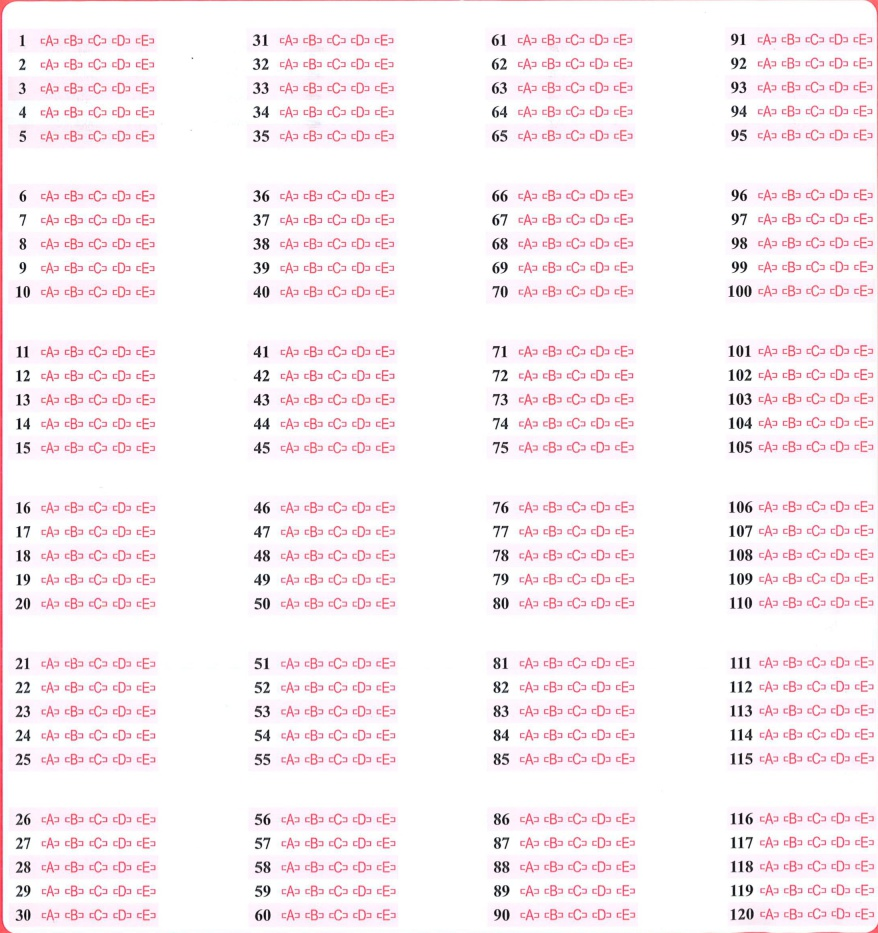
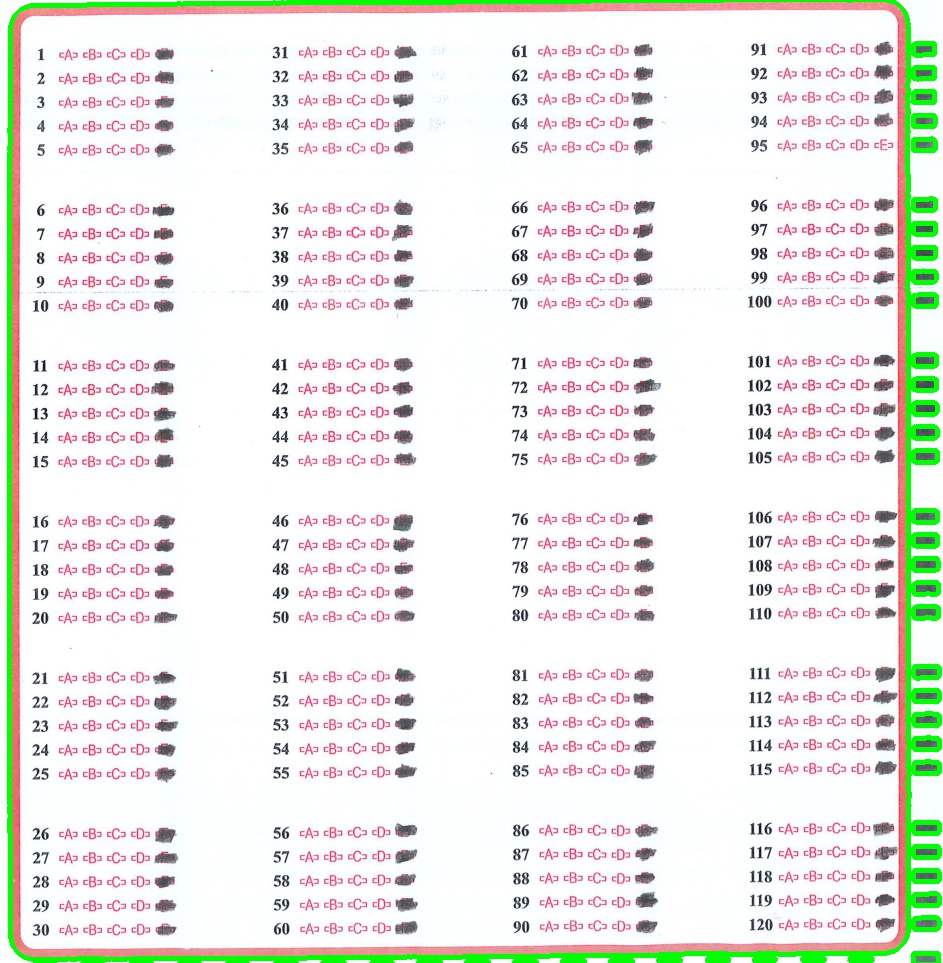
Add new images and files

diff --git a/python/image_crop.py b/python/image_crop.py
@@ -1,6 +1,5 @@
 import cv2
 import numpy as np
-import os
 
 
 def edge_detect(image):
@@ -28,7 +27,7 @@ def find_contours(image):
 
 
 # 裁剪图像
-def crop_answer_area(rotated, contours, h, w):
+def crop(rotated, contours, h, w):
         # 矩形四角坐标
     contours = find_contours(rotated)
     c = max(contours, key=cv2.contourArea)
@@ -44,7 +43,7 @@ def crop_answer_area(rotated, contours, h, w):
         x2, y2 = w - x2, h - y2
 
 
-    # 裁剪出矩形区域
+    # 裁剪出矩形答题区域
     rotated = rotated[min(y1, y2):max(y1, y2), min(x1, x2):max(x1, x2)]
 
     return rotated
@@ -58,7 +57,7 @@ def deskew(image):
     contours = find_contours(image)
 
     # 画出轮廓
-    cv2.drawContours(image, contours, -1, (0, 255, 0), 3)
+    # cv2.drawContours(image, contours, -1, (0, 255, 0), 3)
 
     # 找到最大的轮廓
     c = max(contours, key=cv2.contourArea)
@@ -79,32 +78,34 @@ def deskew(image):
     rotated = cv2.warpAffine(image, M, (w, h), flags=cv2.INTER_CUBIC, borderMode=cv2.BORDER_REPLICATE) # 旋转图像
 
     # 裁剪图像
-    rotated = crop_answer_area(rotated, contours, h, w)
+    rotated = crop(rotated, contours, h, w)
+
+        # 将学号区域转换为灰度图像，并应用二值化
+    gray = cv2.cvtColor(rotated, cv2.COLOR_BGR2GRAY)
+    _, thresh = cv2.threshold(gray, 0, 255, cv2.THRESH_BINARY_INV + cv2.THRESH_OTSU)
+
+    # 轮廓检测
+    contours, _ = cv2.findContours(thresh, cv2.RETR_EXTERNAL, cv2.CHAIN_APPROX_SIMPLE)
+
+    # 最小轮廓面积
+    min_area = 20
+    contours = [c for c in contours if cv2.contourArea(c) > min_area]
+
+
+    # 画出轮廓
+    cv2.drawContours(rotated, contours, -1, (0, 255, 0), 3)
 
 
     return rotated
 
 
 
-def read_images(folder_path):
-    images = []
-    for filename in os.listdir(folder_path):
-        filepath = os.path.join(folder_path, filename)
-        if os.path.isfile(filepath) and filename.lower().endswith(('.png', '.jpg', '.jpeg')):
-            img = cv2.imread(filepath)
-            if img is not None:
-                images.append(img)
-            else:
-                print(f"Failed to read image: {filepath}")
-    return images
-
-
 
 
 if __name__ == '__main__':
-    # Read the image 
+    # Read the image
     image = cv2.imread('images/blank.jpg')    # 缩小图像大小
-    scale_percent = 40 # percent of original size
+    scale_percent = 50 # percent of original size
     width = int(image.shape[1] * scale_percent / 100)
     height = int(image.shape[0] * scale_percent / 100)
     dim = (width, height)
@@ -114,6 +115,8 @@ if __name__ == '__main__':
     # Deskew the image
     deskewed = deskew(image)
 
-    #存储图像
-    cv2.imwrite('pdf/deskewed.jpg', deskewed)
-    
+    # 裁剪图像
+
+
+    cv2.imshow('Deskewed', deskewed)
+    cv2.waitKey(0)

diff --git a/python/image_crop_test.py b/python/image_crop_test.py
@@ -1,0 +1,89 @@
+import cv2
+import numpy as np
+import os
+
+def edge_detect(image):
+    gray = cv2.cvtColor(image, cv2.COLOR_BGR2GRAY)
+    blurred = cv2.GaussianBlur(gray, (5, 5), 0)
+    edged = cv2.Canny(blurred, 50, 150)
+    return edged
+
+
+
+def find_contours(image):
+    edged = edge_detect(image)
+    contours, _ = cv2.findContours(edged, cv2.RETR_EXTERNAL, cv2.CHAIN_APPROX_SIMPLE)
+    return contours
+
+
+
+
+def crop_answer_area(rotated, contours, h, w):
+    contours = find_contours(rotated)
+    c = max(contours, key=cv2.contourArea)
+    rect = cv2.minAreaRect(c)
+    box = cv2.boxPoints(rect)
+    box = np.intp(box)
+    x1, y1 = box[0]
+    x2, y2 = box[2]
+
+    if y1 < h - y2:
+        rotated = cv2.rotate(rotated, cv2.ROTATE_180)
+        x1, y1 = w - x1, h - y1
+        x2, y2 = w - x2, h - y2
+
+    rotated = rotated[min(y1, y2):max(y1, y2), min(x1, x2):max(x1, x2)]
+    return rotated
+
+
+
+
+def deskew(image):
+    (h, w) = image.shape[:2]
+    contours = find_contours(image)
+    c = max(contours, key=cv2.contourArea)
+    rect = cv2.minAreaRect(c)
+    box = cv2.boxPoints(rect)
+    box = np.intp(box)
+    angle = rect[2]
+    if rect[1][0] > rect[1][1]:
+        angle = 90 + angle
+
+    center = (w // 2, h // 2)
+    M = cv2.getRotationMatrix2D(center, angle, 1.0)
+    rotated = cv2.warpAffine(image, M, (w, h), flags=cv2.INTER_CUBIC, borderMode=cv2.BORDER_REPLICATE)
+    rotated = crop_answer_area(rotated, contours, h, w)
+    return rotated
+
+
+
+
+def process_images_in_folder(folder_path, output_folder):
+    if not os.path.exists(output_folder):
+        os.makedirs(output_folder)
+
+    for filename in os.listdir(folder_path):
+        if filename.lower().endswith(('.png', '.jpg', '.jpeg')):
+            image_path = os.path.join(folder_path, filename)
+            image = cv2.imread(image_path)
+
+            scale_percent = 40  # percent of original size
+            width = int(image.shape[1] * scale_percent / 100)
+            height = int(image.shape[0] * scale_percent / 100)
+            dim = (width, height)
+
+            image = cv2.resize(image, dim, interpolation=cv2.INTER_AREA)
+            deskewed = deskew(image)
+
+            output_path = os.path.join(output_folder, f"deskewed_{filename}")
+            cv2.imwrite(output_path, deskewed)
+            print(f"Processed and saved: {output_path}")
+
+
+
+
+
+if __name__ == '__main__':
+    input_folder = 'images/pdf_converted'  # Specify the input folder path here
+    output_folder = 'cropped_images'  # Specify the output folder path here
+    process_images_in_folder(input_folder, output_folder)

diff --git a/python/crop_question.py b/python/crop_question.py
@@ -19,10 +19,10 @@ def crop_box(input_image_path, start_x, start_y, box_width, box_height):
 
 if __name__ == '__main__':
     # 示例用法
-    input_image_path = "pdf/deskewed.jpg"  # 输入图片路径
-    start_x = 15  # 起始横坐标
-    start_y = 30  # 起始纵坐标
-    box_width = 150  # 截图窗口宽度
+    input_image_path = "images/cropped_images/deskewed_0011.jpg"  # 输入图片路径
+    start_x = 40  # 起始横坐标
+    start_y = 40  # 起始纵坐标
+    box_width = 130  # 截图窗口宽度
     box_height = 24  # 截图窗口高度
 
     for i in range(1, 121):
@@ -31,8 +31,8 @@ if __name__ == '__main__':
             if i % 30 == 0:
                 cropped_image = crop_box(input_image_path, start_x, start_y, box_width, box_height)
                 cropped_image.save(f"images/cropped_questions/cropped_image_{i}.jpg")
-                start_y = 30
-                start_x += box_width + 87
+                start_y = 40
+                start_x += box_width + 110
             else:
                 cropped_image = crop_box(input_image_path, start_x, start_y, box_width, box_height)
                 cropped_image.save(f"images/cropped_questions/cropped_image_{i}.jpg")

diff --git a/python/img_pixel_count.py b/python/img_pixel_count.py
@@ -4,7 +4,7 @@ import matplotlib.pyplot as plt
 import os
 
 # Load the image
-image_path = 'images/deskewed.jpg'
+image_path = 'images/cropped_images/deskewed_0001.jpg'
 image = Image.open(image_path)
 
 # Since the questions seem to be laid out in a grid, we'll try to detect the grid pattern.
